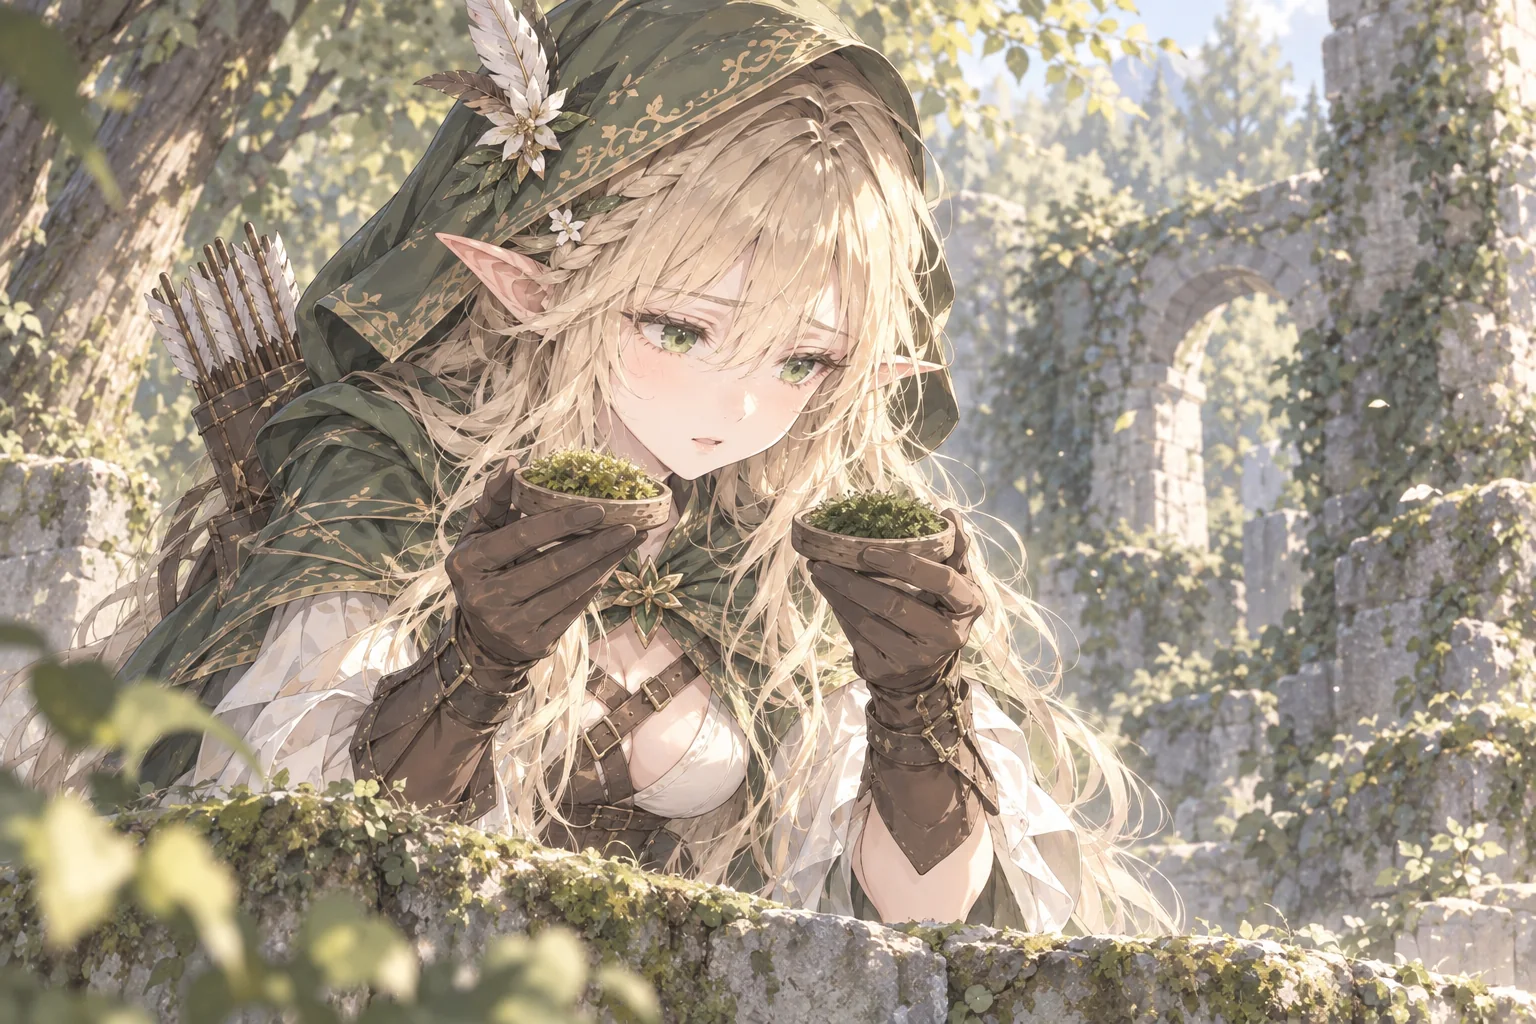
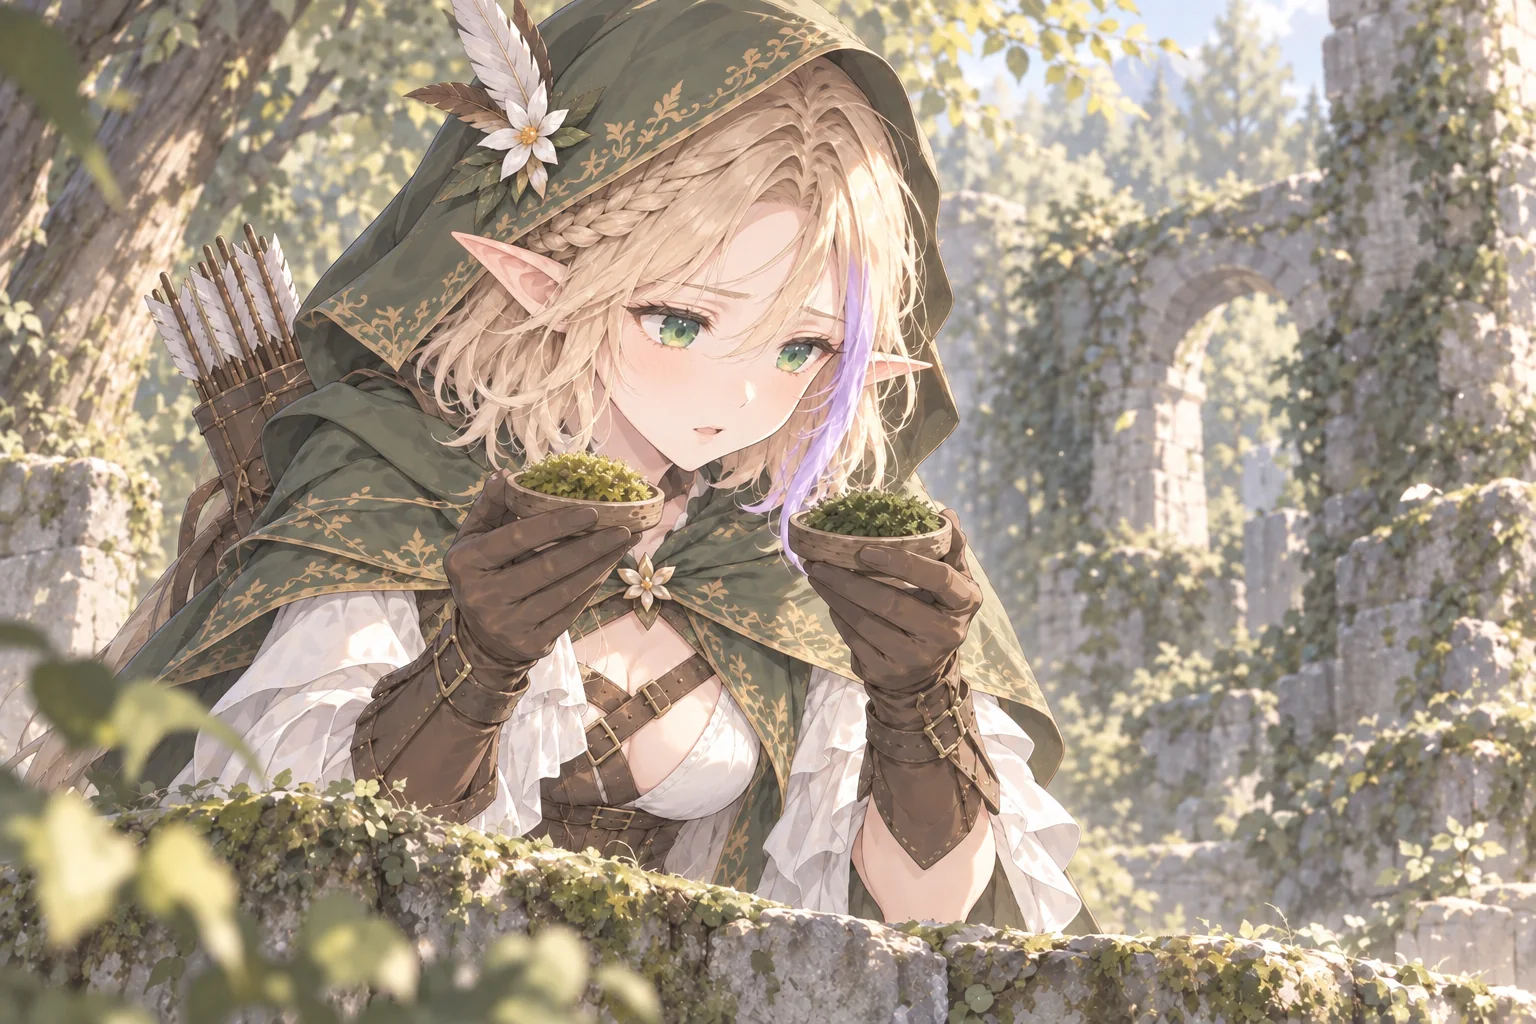
Refresh forest moss comparison still with current Aria design

Changed region(s): [[0.0, 0.0, 1.0, 1.0], [0.9688, 0.5938, 1.0, 0.625]]

diff --git a/docs/art/story-art.md b/docs/art/story-art.md
@@ -73,7 +73,7 @@
 
 ## 第一章1-6
 
-森の湿地背景は組み込み `image_gen` で制作。苔を比較するスチルは2026-09-15にユーザー提供の1536×1024 PNGへ無加工で差し替えた。背景は [1-6の制作記録](../art-generation/stage-1-6-art.json)、採用スチルの出典とハッシュは [採用画像の記録](../art-generation/stage-1-6-closeup-art.json) に保存した。
+森の湿地背景は組み込み `image_gen` で制作。苔を比較するスチルは2026-09-15のユーザー提供画像をもとに、2026-10-05に最新のアリア設定画へ合わせて描き直した。肩〜鎖骨丈の毛量を抑えた金髪と花飾りの反対側の淡い紫の一房を反映し、フードをかぶって二つの器を顔へ近づける動作、木漏れ日と石壁、苔を見比べる表情を維持する。苔の同一性を断定する発光演出は追加しない。背景は [1-6の制作記録](../art-generation/stage-1-6-art.json)、以前の採用画像は [制作履歴](../art-generation/stage-1-6-closeup-art.json)、今回の更新は [更新記録](../art-generation/forest-moss-refresh-20261005.json) を参照。
 
 - `assets/source/scenery/forest-wetland.png`：1-6の一覧・冒険背景。午後の木陰、湿った石と根、浅い水辺、人物が歩く地面を描く。塔や光る苔は置かない。
 - `public/stories/forest-moss-aria.webp`：`forest-wetland-return` の0起点5行目、アリアが二つの入れ物を顔の近くまで持ち上げて見比べる動作から表示。読了後はアルバムで鑑賞できる。

diff --git a/docs/art/story-art-gallery.md b/docs/art/story-art-gallery.md
@@ -47,7 +47,7 @@
 
 ## 同じかもしれない
 
-第一章1-6。2026-09-15にユーザー提供画像へ差し替え。木漏れ日と苔むした石壁を背景に、アリアが両手の器を顔の近くまで持ち上げて二つの苔を見比べる。持ち上げる行から表示し、まだ同種とも塔の不調の原因とも断定しない。[背景の制作記録](../art-generation/stage-1-6-art.json) と [採用画像の記録](../art-generation/stage-1-6-closeup-art.json) を参照。
+第一章1-6。2026-10-05に最新設定画のアリアへ更新。木漏れ日と苔むした石壁を背景に、フードをかぶったアリアが両手の器を顔の近くまで持ち上げて二つの苔を見比べる。短い金髪と紫の一房を反映し、構図と表情を維持した。持ち上げる行から表示し、まだ同種とも塔の不調の原因とも断定しない。[背景の制作記録](../art-generation/stage-1-6-art.json) と [更新記録](../art-generation/forest-moss-refresh-20261005.json) を参照。
 
 ![木漏れ日が差す苔むした石壁の前で、二つの苔を顔の近くへ持ち上げて見比べるアリア。](../../public/stories/forest-moss-aria.webp)
 

diff --git a/CHANGELOG.md b/CHANGELOG.md
@@ -10,7 +10,7 @@
 
 ## 0.5.x（第五章の開発）
 
-- 0.5.3: キャラ設定画・5人の顔アイコンと苔発見スチルを更新する（#243）
+- 0.5.3: キャラ設定画・5人の顔アイコンと第一章スチルを更新する（#243）
 
 - 0.5.2: スタート画面の塔の紫の灯りとリンデ周辺の地形を修正する（#238）
 
